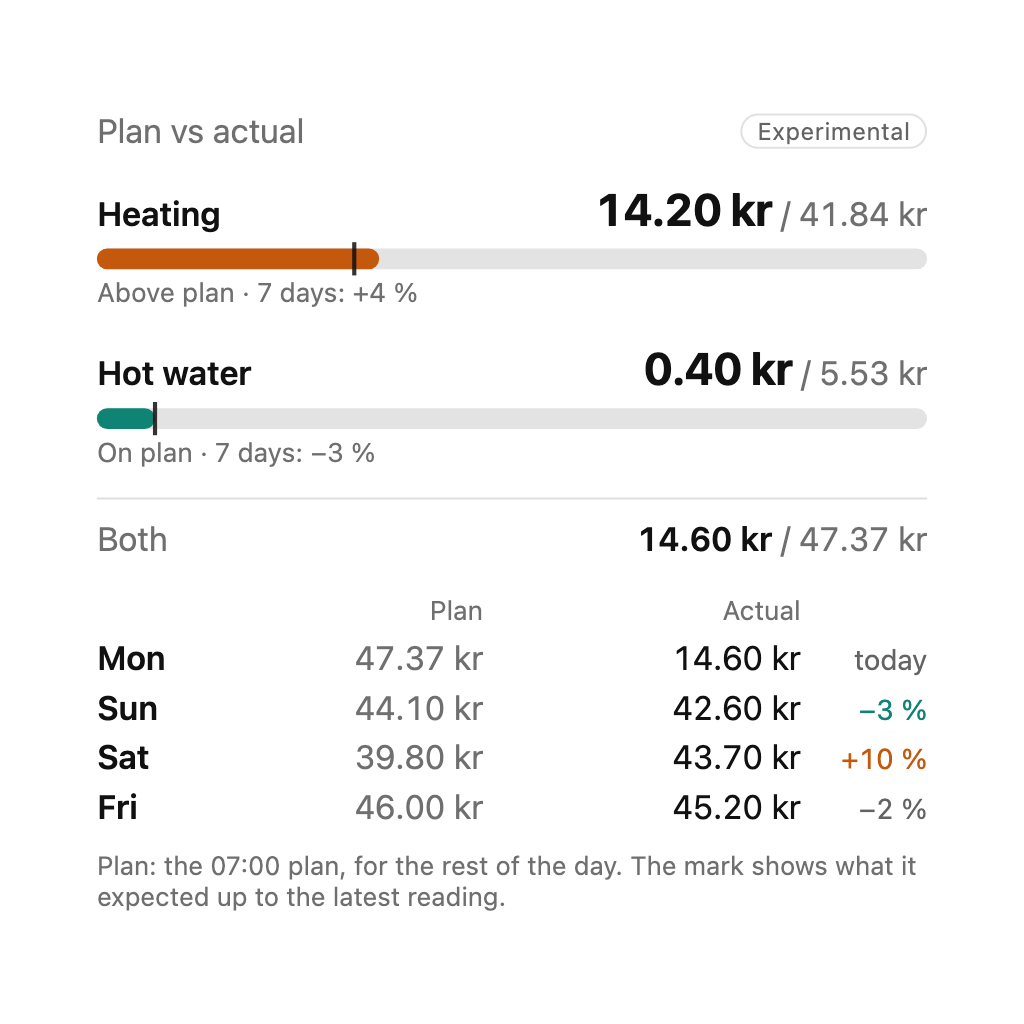
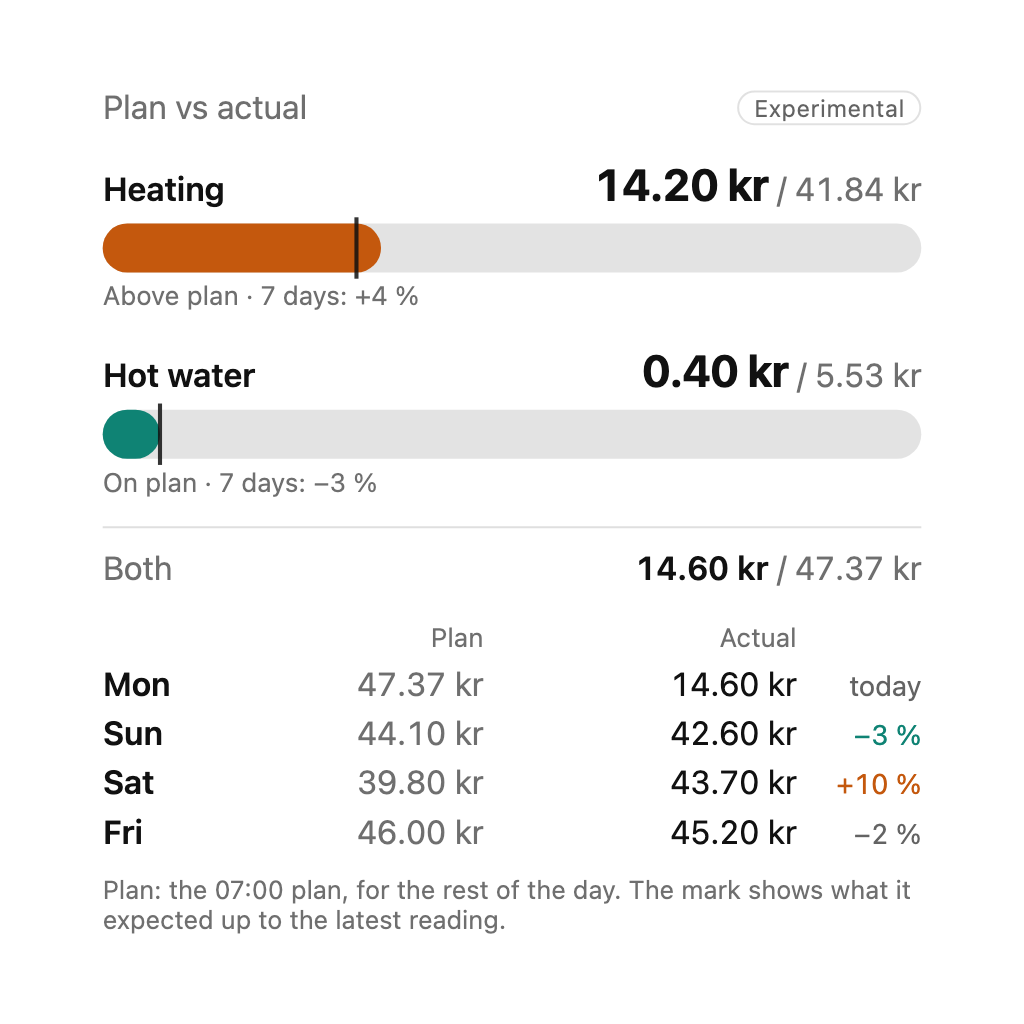
Plan vs actual: 24 px bars, as thick as the savings cards'

Changed region(s): [[0.0938, 0.5, 0.9062, 0.9062], [0.0938, 0.0938, 0.9062, 0.3125], [0.0938, 0.3438, 0.9062, 0.5625]]

diff --git a/widgets/cost_check/public/index.html b/widgets/cost_check/public/index.html
@@ -13,8 +13,8 @@
       .cc-name { font-weight: 600; }
       .cc-v { font-size: 1.35em; font-weight: 700; letter-spacing: -0.01em; font-variant-numeric: tabular-nums; }
       .cc-of { opacity: 0.6; font-variant-numeric: tabular-nums; }
-      .cc-bar { position: relative; height: 10px; border-radius: 5px; background: rgba(127, 127, 127, 0.22); margin-top: 6px; }
-      .cc-fill { position: absolute; left: 0; top: 0; bottom: 0; border-radius: 5px; background: var(--cc-good); }
+      .cc-bar { position: relative; height: 24px; border-radius: 12px; background: rgba(127, 127, 127, 0.22); margin-top: 6px; }
+      .cc-fill { position: absolute; left: 0; top: 0; bottom: 0; border-radius: 12px; background: var(--cc-good); }
       .cc-fill.ahead { background: var(--cc-over); }
       .cc-mark { position: absolute; top: -3px; bottom: -3px; width: 2px; margin-left: -1px; background: currentColor; opacity: 0.85; }
       .cc-note { margin-top: 4px; font-size: 0.8em; opacity: 0.6; }
